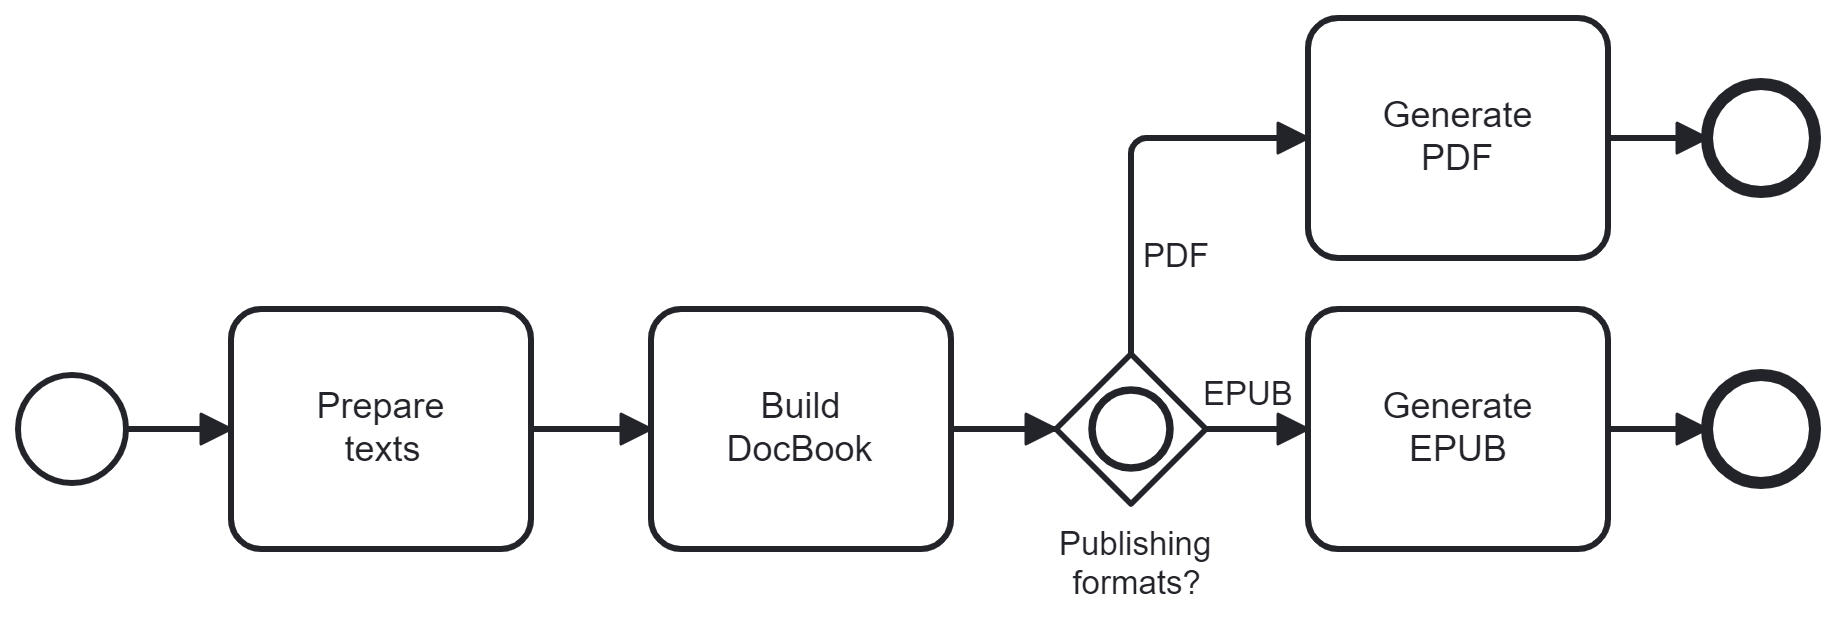
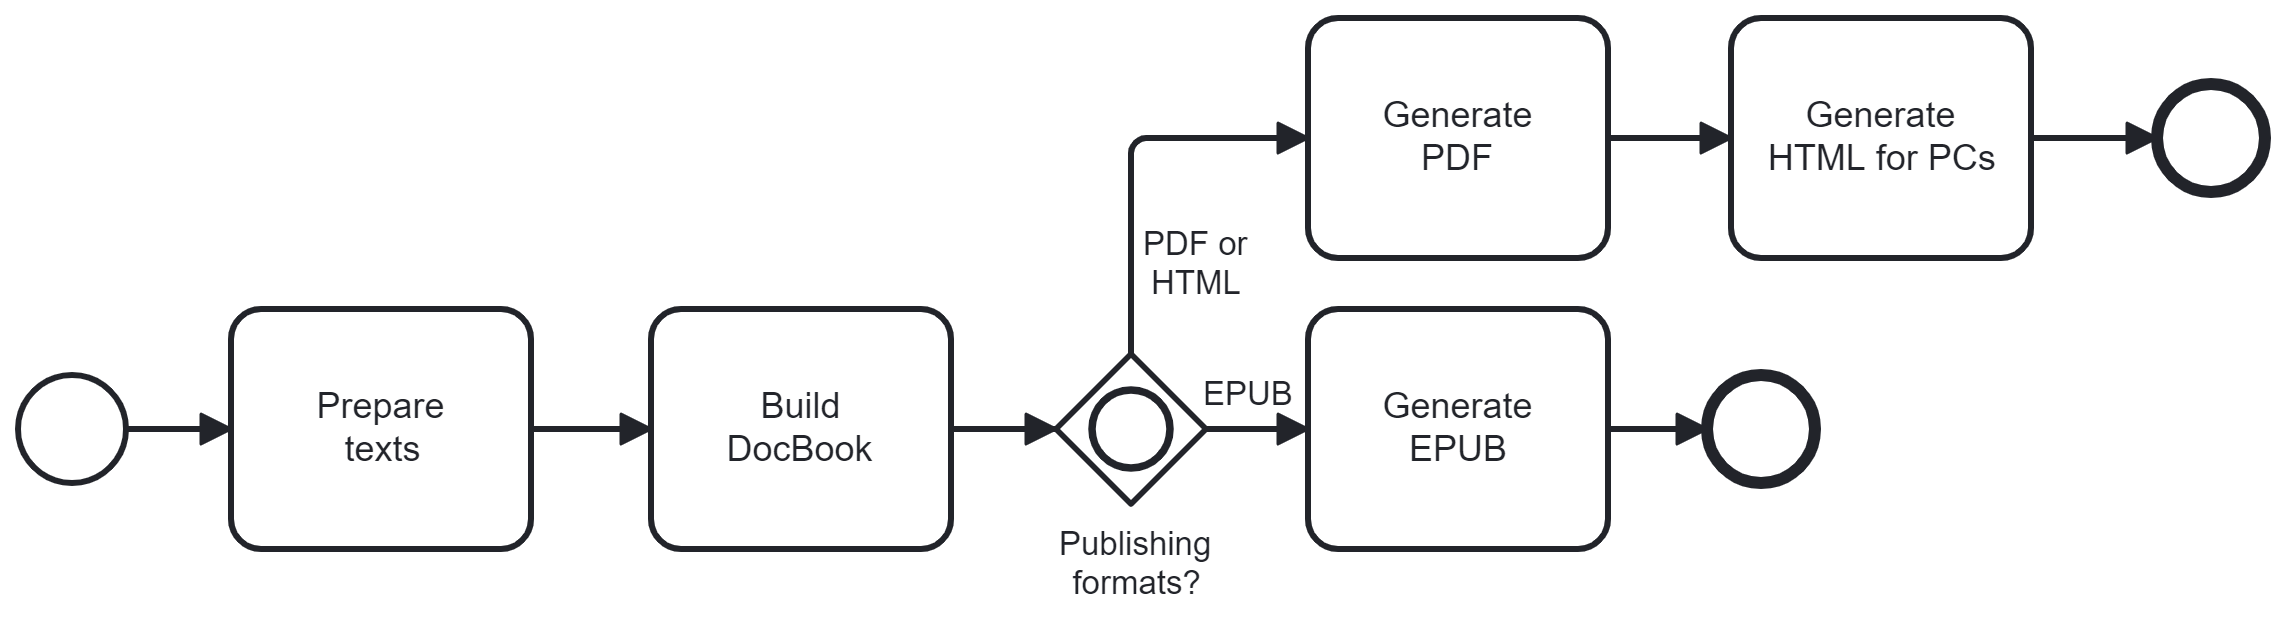
Add HTML generation

Changed region(s): [[0.0, 0.0, 0.9951, 0.9744], [0.8707, 0.5176, 0.9951, 0.8526]]

diff --git a/README.md b/README.md
@@ -5,6 +5,7 @@ Publishing chain for bilingual ebooks (EPUB and PDF) based on translation memory
 - Prepare texts
 - Build DocBook
 - [Generate PDF](https://github.com/japotrad/bilingual-ebooks/blob/main/3.%20Generate%20PDF/README.md)
+- Generate HTML for personal computers using [IDR solutions' Online PDF to HTML5 Converter](https://www.idrsolutions.com/online-pdf-to-html5-converter)
 - Generate EPUB
 
 ## Limitations ##
